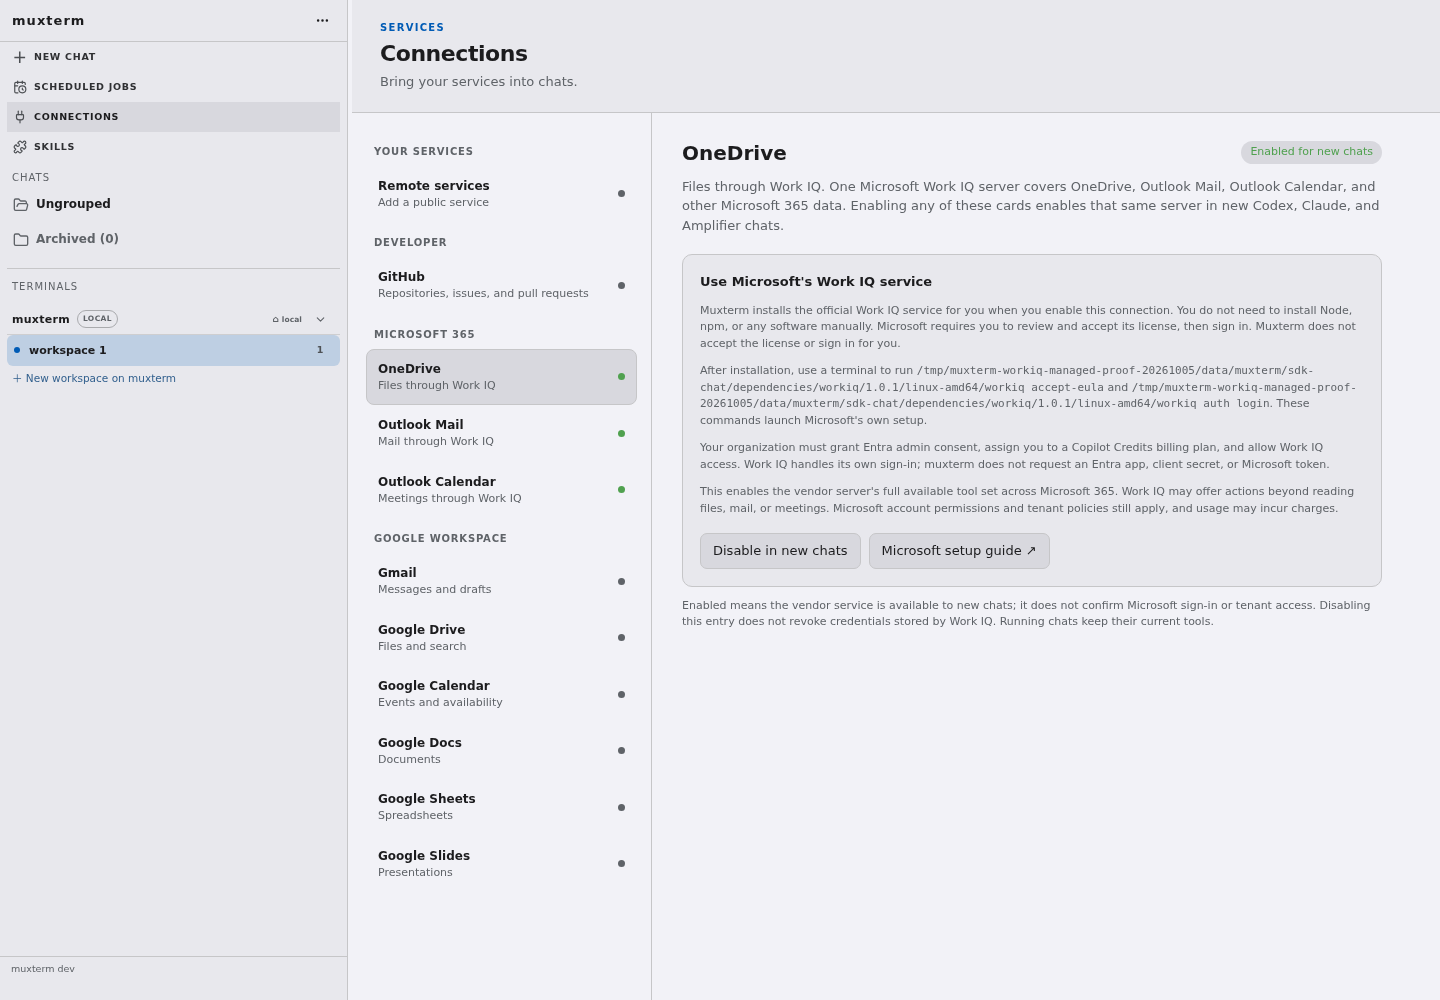
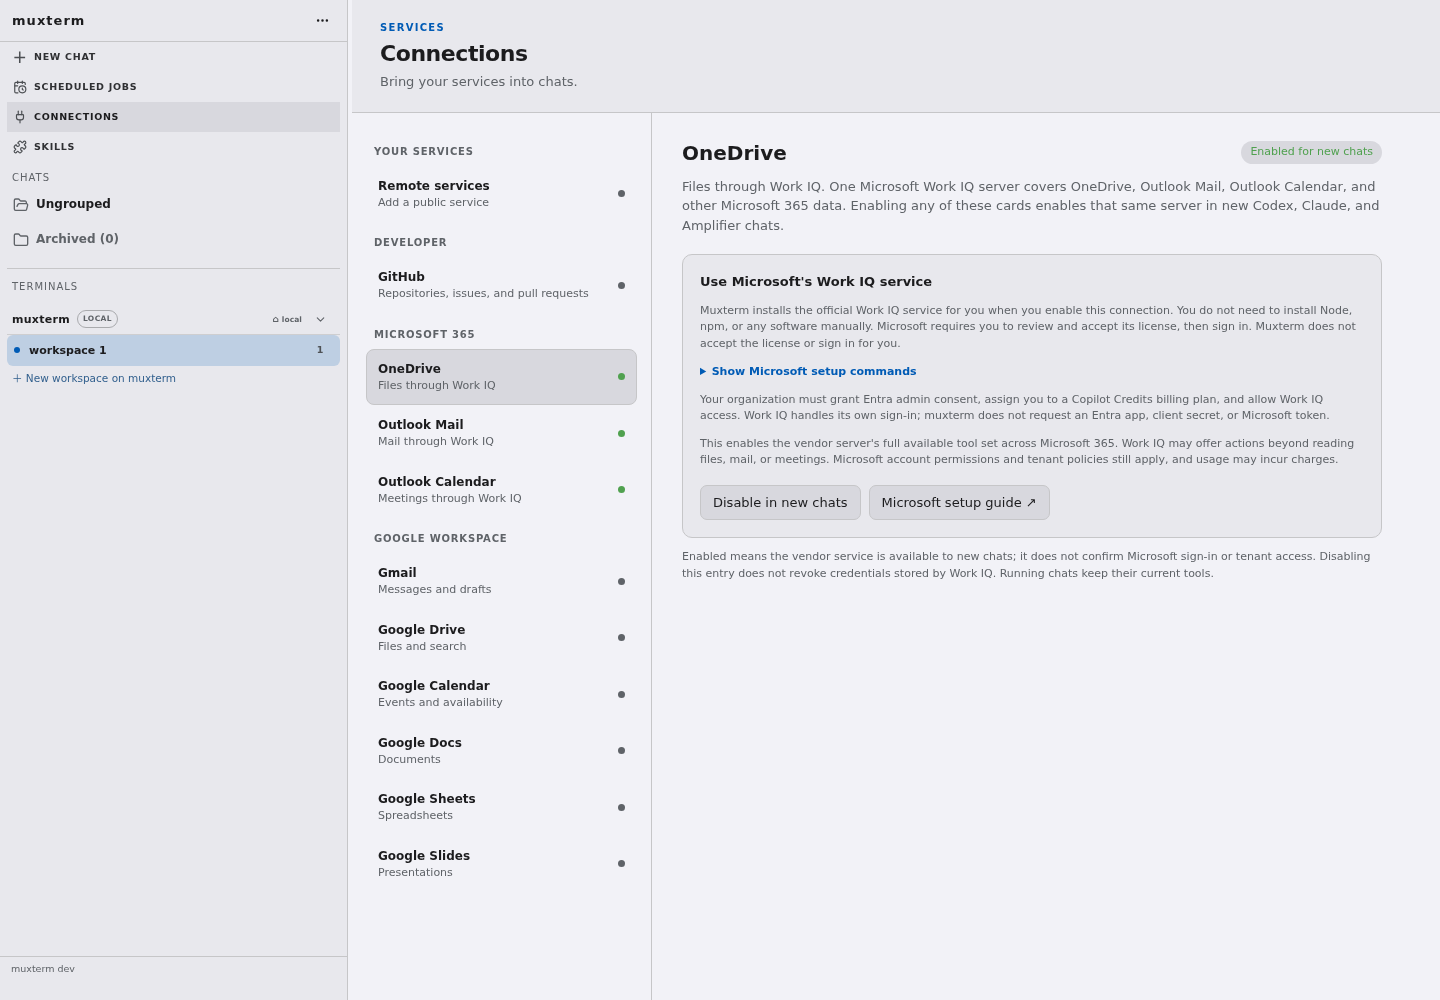
Keep Work IQ setup commands out of connection overview

Changed region(s): [[0.4688, 0.341, 0.9375, 0.62], [0.9062, 0.589, 0.9375, 0.62]]

diff --git a/web/src/components/mux-connections.ts b/web/src/components/mux-connections.ts
@@ -16,6 +16,7 @@ export class MuxConnections extends LitElement {
   @state() private data?:ConnectionsResponse;
   @state() private remotes?:RemoteResponse;
   @state() private workiq?:WorkIQState;
+  @state() private copiedWorkIQ='';
   @state() private selected='github';
   @state() private busy='';
   @state() private error='';
@@ -58,6 +59,10 @@ export class MuxConnections extends LitElement {
     button.action:disabled { opacity:.5; cursor:default; } a { color:var(--chrome-accent); }
     .error { margin:15px 0; padding:9px 11px; border:1px solid var(--chrome-danger); border-radius:7px; color:var(--chrome-danger); }
     .note { margin-top:11px; font-size:11px; } code { overflow-wrap:anywhere; }
+    details.setup-steps { margin-top:12px; font-size:11px; color:var(--chrome-text-dim); }
+    details.setup-steps summary { cursor:pointer; color:var(--chrome-accent); font-weight:650; }
+    .setup-command { display:flex; align-items:flex-start; gap:10px; margin-top:9px; }
+    .setup-command code { flex:1; min-width:0; padding:7px; border-radius:6px; background:var(--chrome-body); user-select:all; }
     @media(max-width:700px) { header { padding:14px 16px; } .layout { grid-template-columns:1fr; grid-template-rows:auto minmax(0,1fr); } .catalog { display:flex; overflow:auto; border-right:0; border-bottom:1px solid var(--chrome-border); padding:9px; gap:4px; } .group { display:none; } .service { width:auto; min-width:150px; } main { padding:20px 16px 40px; } }
   `;
 
@@ -105,6 +110,18 @@ export class MuxConnections extends LitElement {
   private disconnect() {
     if (!window.confirm('Disable GitHub tools for new chats? Your GitHub CLI login stays signed in.')) return;
     void this.run('disconnect',()=>this.request('/api/connections/github',{method:'DELETE'}));
+  }
+  private workIQCommand(action:string) {
+    const path=this.workiq?.command??'';
+    return `'${path.replaceAll("'", "'\"'\"'")}' ${action}`;
+  }
+  private async copyWorkIQCommand(action:string) {
+    try {
+      await navigator.clipboard.writeText(this.workIQCommand(action));
+      this.copiedWorkIQ=action;
+    } catch {
+      this.error='Could not copy the command. Select the command text to copy it manually.';
+    }
   }
   private createRemote() { void this.run('remote-create',async()=>{
     await this.request('/api/connections/remote',{method:'POST',body:JSON.stringify({name:this.remoteName,endpoint:this.remoteEndpoint,issuerURL:this.remoteIssuer,clientID:this.remoteClientID,clientSecret:this.remoteClientSecret,scopes:this.remoteScopes})});
@@ -195,7 +212,10 @@ export class MuxConnections extends LitElement {
       <p class="lead">${service.description}. One Microsoft Work IQ server covers OneDrive, Outlook Mail, Outlook Calendar, and other Microsoft 365 data. Enabling any of these cards enables that same server in new Codex, Claude, and Amplifier chats.</p>
       <div class="box"><strong>Use Microsoft's Work IQ service</strong>
         <p class="note">Muxterm installs the official Work IQ service for you when you enable this connection. You do not need to install Node, npm, or any software manually. Microsoft requires you to review and accept its license, then sign in. Muxterm does not accept the license or sign in for you.</p>
-        ${w.command?html`<p class="note">After installation, use a terminal to run <code>${w.command} accept-eula</code> and <code>${w.command} auth login</code>. These commands launch Microsoft's own setup.</p>`:nothing}
+        ${w.command?html`<details class="setup-steps"><summary>Show Microsoft setup commands</summary><p class="note">Run these commands in a terminal. They open Microsoft's own license and sign-in steps.</p>
+          <div class="setup-command"><code>${this.workIQCommand('accept-eula')}</code><button class="action" aria-label="Copy Work IQ license command" @click=${()=>void this.copyWorkIQCommand('accept-eula')}>${this.copiedWorkIQ==='accept-eula'?'Copied':'Copy'}</button></div>
+          <div class="setup-command"><code>${this.workIQCommand('auth login')}</code><button class="action" aria-label="Copy Work IQ sign-in command" @click=${()=>void this.copyWorkIQCommand('auth login')}>${this.copiedWorkIQ==='auth login'?'Copied':'Copy'}</button></div>
+        </details>`:nothing}
         <p class="note">Your organization must grant Entra admin consent, assign you to a Copilot Credits billing plan, and allow Work IQ access. Work IQ handles its own sign-in; muxterm does not request an Entra app, client secret, or Microsoft token.</p>
         <p class="note">This enables the vendor server's full available tool set across Microsoft 365. Work IQ may offer actions beyond reading files, mail, or meetings. Microsoft account permissions and tenant policies still apply, and usage may incur charges.</p>
         <div class="actions"><button class="action ${enabled?'':'primary'}" ?disabled=${!!this.busy} @click=${()=>void this.run('workiq-toggle',()=>this.request('/api/connections/workiq',{method:enabled?'DELETE':'POST'}))}>${this.busy==='workiq-toggle'?'Setting up…':enabled?'Disable in new chats':w.installed?'Enable in new chats':'Set up Microsoft 365'}</button><a class="action" href=${service.docsUrl} target="_blank" rel="noopener noreferrer">Microsoft setup guide ↗</a></div>
